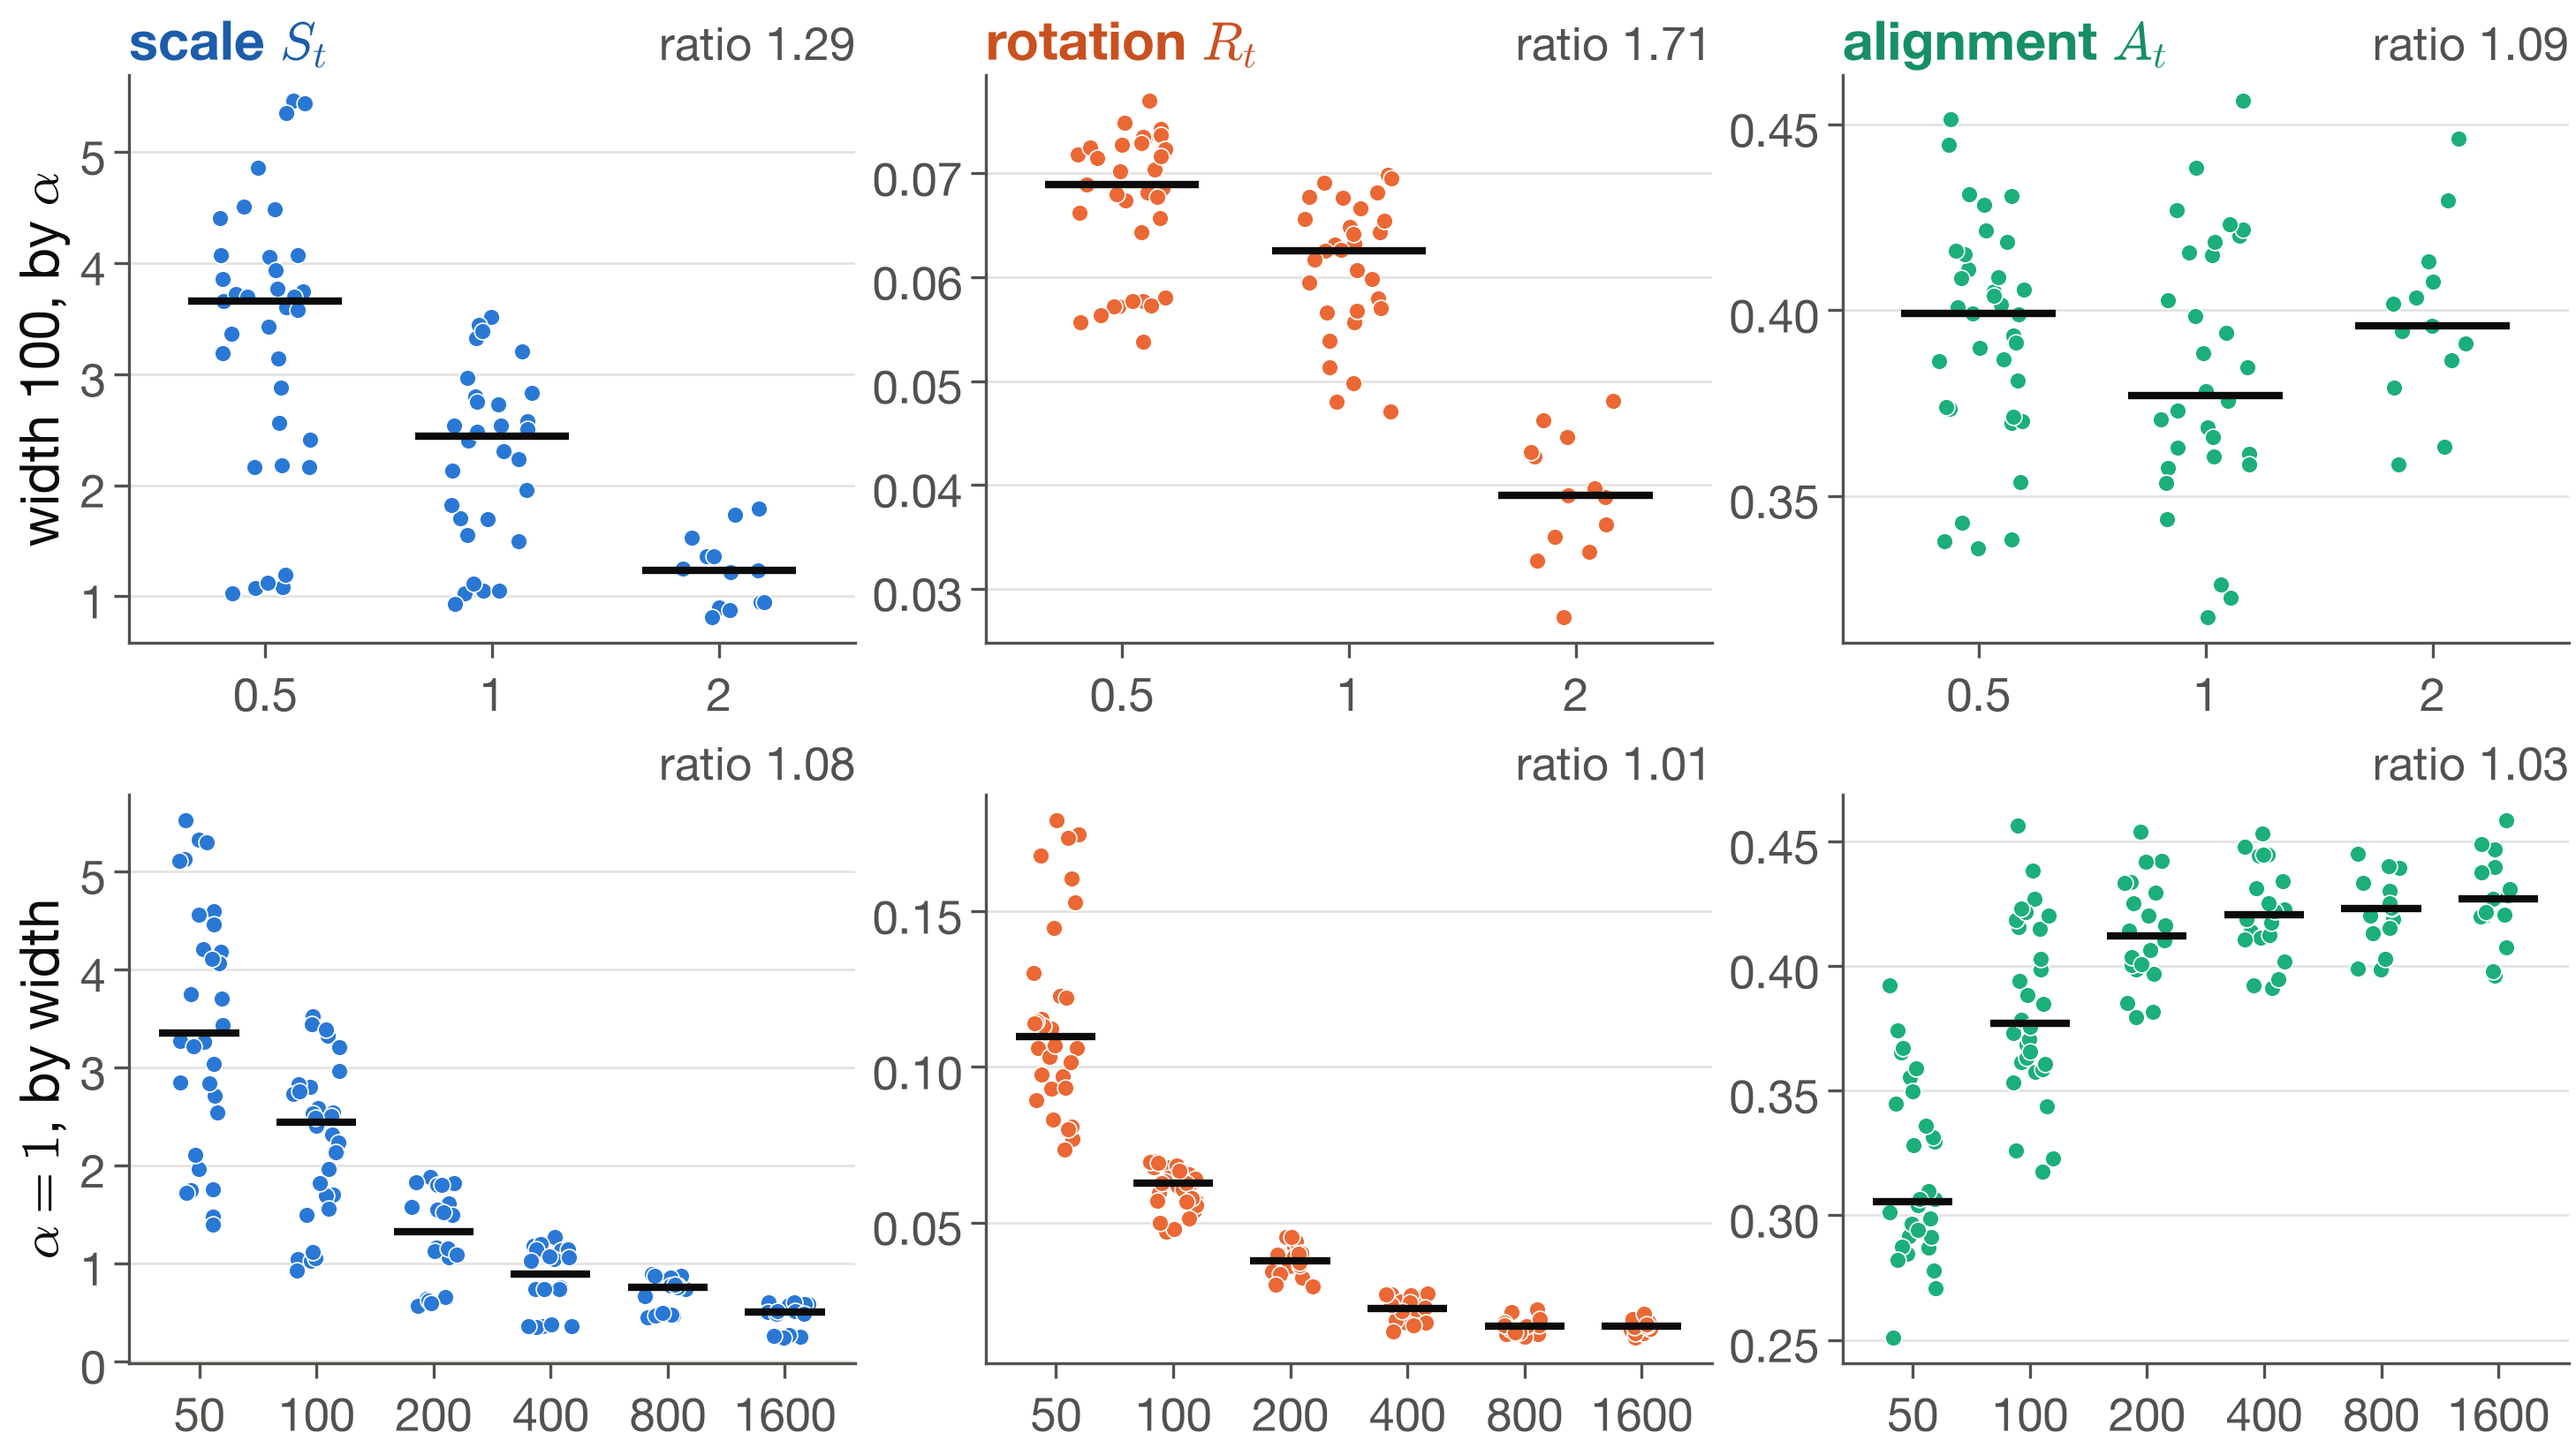
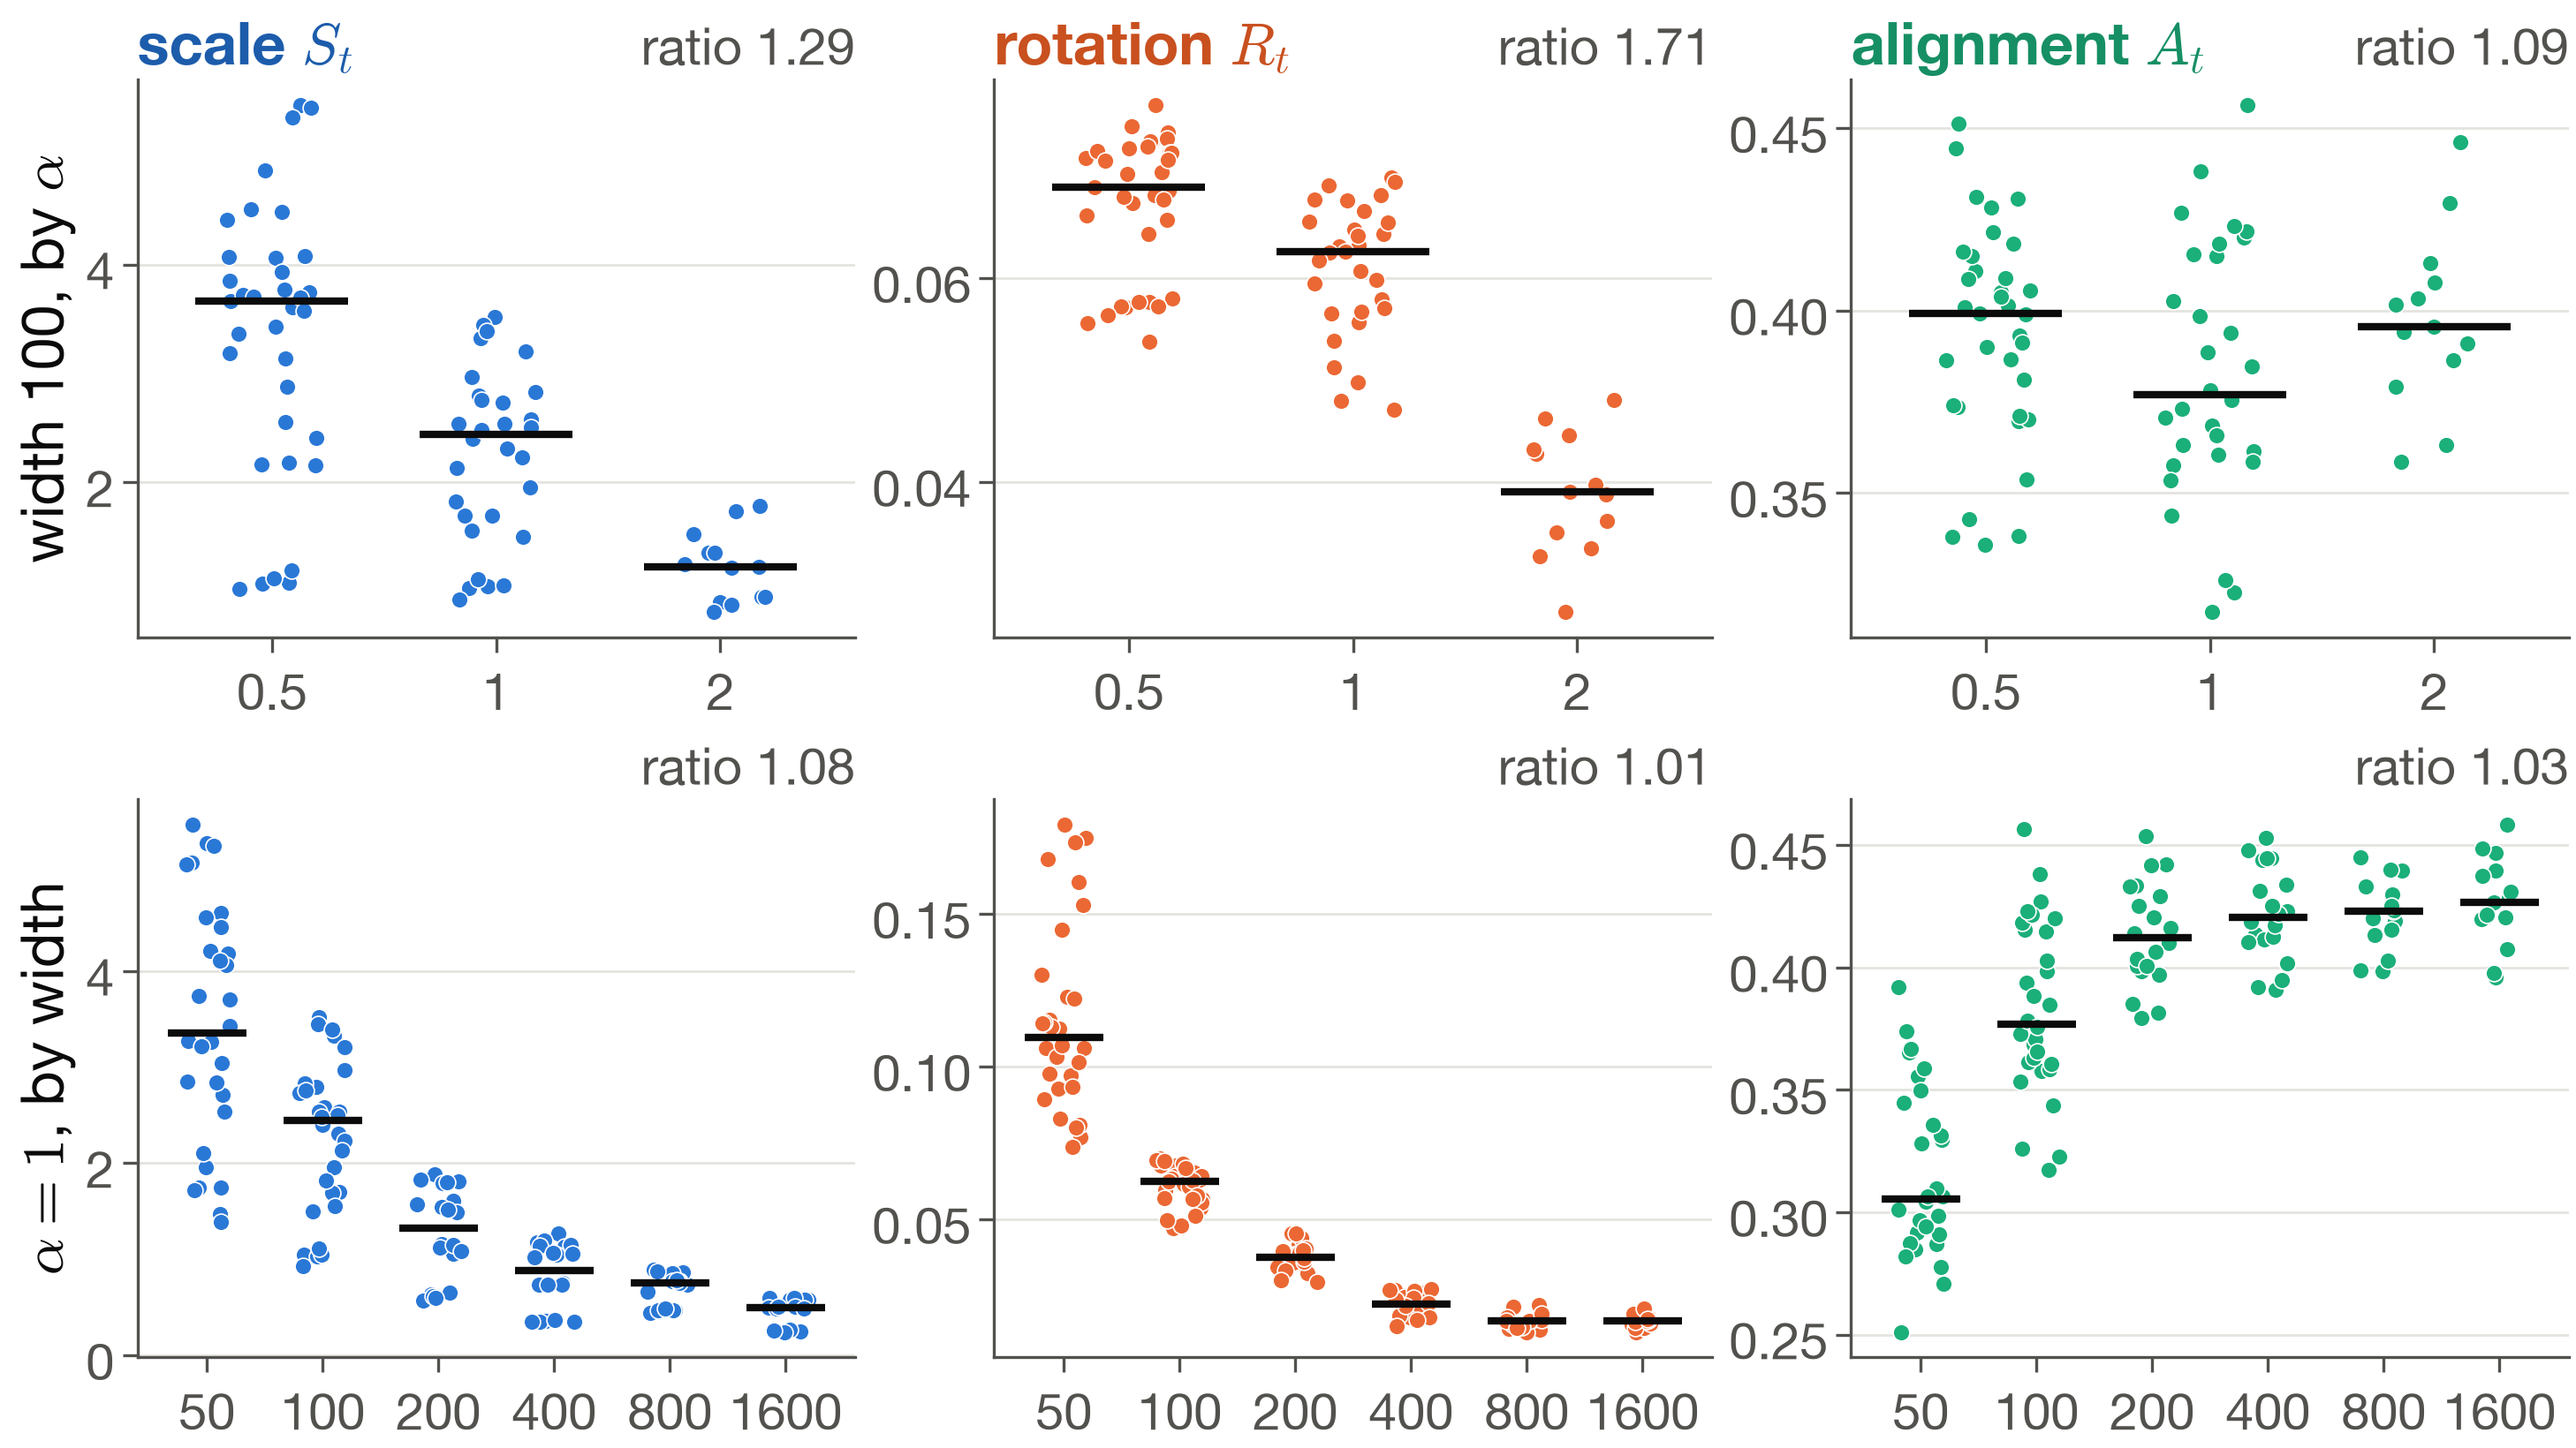
Raise the type of the slide figures to the deck's small print
Tick labels now show at about 29 pixels on the 1920 by 1080 slide, a
little above the small print of the deck. In E8 the label of the settings
reference ends at the top of its dashed line, and the chance line stops
below its label.

diff --git a/presentation/make_figures.py b/presentation/make_figures.py
@@ -30,7 +30,7 @@ import common as C  # noqa: E402
 OUT = HERE / 'assets' / 'figures'
 
 # A figure is drawn at 100 pixels per inch of the 1920 by 1080 slide, so type of s points shows at
-# 1.39 s pixels. A figure in a 55% column is 1056 pixels wide. E2 fills the slide below its title.
+# 1.39 s pixels. Tick labels of 21 points show at 29 pixels, a little above the deck's small print. A figure in a 55% column is 1056 pixels wide. E2 fills the slide below its title.
 # The PNGs are saved at twice that resolution.
 COLUMN = (10.56, 5.94)
 WIDE = (14.58, 8.2)
@@ -47,8 +47,8 @@ plt.rcParams.update({
     # The deck sets Source Sans 3 with Helvetica Neue as its fallback. Matplotlib finds only the
     # fallback here, as Manim does for the clips. Formulas use the TeX fonts, as MathJax does.
     'font.family': 'Helvetica Neue', 'mathtext.fontset': 'cm', 'axes.unicode_minus': False,
-    'font.size': 20, 'axes.titlesize': 22, 'axes.labelsize': 22, 'xtick.labelsize': 19, 'ytick.labelsize': 19,
-    'legend.fontsize': 19, 'lines.linewidth': 2.4, 'lines.markersize': 9, 'axes.linewidth': 1.2,
+    'font.size': 22, 'axes.titlesize': 24, 'axes.labelsize': 24, 'xtick.labelsize': 21, 'ytick.labelsize': 21,
+    'legend.fontsize': 21, 'lines.linewidth': 2.4, 'lines.markersize': 9, 'axes.linewidth': 1.2,
     'grid.linewidth': 1.0, 'xtick.major.width': 1.2, 'ytick.major.width': 1.2, 'xtick.major.size': 6,
     'ytick.major.size': 6, 'xtick.minor.size': 3.5, 'ytick.minor.size': 3.5,
     'figure.dpi': 100, 'savefig.dpi': 200, 'savefig.bbox': 'standard',
@@ -104,7 +104,7 @@ def e2():
             ax.set_xlim(-0.6, len(levels) - 0.4)
             ax.grid(axis='x', visible=False)
             ax.set_title(f"ratio {e3[group][stat]['sd']['tightening']:.2f}", loc='right', color=C.MUTED,
-                         fontsize=19)
+                         fontsize=21)
             if r == 0:
                 ax.set_title(C.STAT_NAME[stat], loc='left', color=C.STAT_RAMP[stat][4], fontweight='bold')
         axes[r, 0].set_ylabel(label)
@@ -177,7 +177,7 @@ def e5():
     ax.text(x1 * 1.12, t0 * x0 / x1, 'slope $-1$', color=C.MUTED, va='center')
     ax.axhline(C.BUDGET, color=C.MUTED, lw=1.2)
     ax.text(2.6e-6, C.BUDGET * 1.07, 'Open circles did not grok within 200,000 steps.', color=C.MUTED, va='bottom',
-            fontsize=17)
+            fontsize=19)
     ax.set_xscale('log')
     ax.set_yscale('log')
     decays = sorted(a1.eta_kappa.unique())
@@ -188,7 +188,7 @@ def e5():
     ax.set_xlim(2.2e-6, 9e-3)
     ax.set_xlabel(r'weight decay $\eta\lambda$')
     ax.set_ylabel('grokking step $T$')
-    ax.legend(loc='lower left', ncol=2, handlelength=1.4, columnspacing=1.0, borderaxespad=0.2, fontsize=18)
+    ax.legend(loc='lower left', ncol=2, handlelength=1.4, columnspacing=1.0, borderaxespad=0.2, fontsize=20)
     save(fig, 'E5_scaling')
 
 
@@ -213,7 +213,7 @@ def e7():
         cb.outline.set_visible(False)
         if stat == 'R':
             cb.ax.yaxis.set_major_formatter(POW10)
-    axes[0].set_title(r'median over seeds at $t^{*}$', loc='right', color=C.MUTED, fontsize=19)
+    axes[0].set_title(r'median over seeds at $t^{*}$', loc='right', color=C.MUTED, fontsize=21)
     axes[1].set_xlabel(r'weight decay $\eta\lambda$')
     save(fig, 'E7_mechanism')
 
@@ -231,14 +231,14 @@ def e8():
               ('kernel ridge', 'kernel ridge', None), ('XGBoost', 'boosted trees', None),
               ('GRU on history', 'recurrent network', None)]
     fig, ax = plt.subplots(figsize=COLUMN, layout='constrained')
-    for i, (key, _, stat) in enumerate(models):
-        mean = ladder[key]['mean']
+    for i, (name, _, stat) in enumerate(models):
+        mean = ladder[name]['mean']
         ax.barh(i, mean - 0.5, left=0.5, height=0.62, color=C.STAT_COLOUR[stat] if stat else NEUTRAL, zorder=2)
         ax.text(0.875, i, f'{mean:.2f}', ha='right', va='center')
     ref = ladder['settings reference']['mean']
     # The two lines stop below their labels.
     ax.vlines(ref, -0.55, len(models) - 0.45, color=C.TEXT, ls='--', lw=2, zorder=3)
-    ax.text(ref, -0.7, f'given the settings, {ref:.2f}', ha='center', va='bottom')
+    ax.text(ref + 0.004, -0.7, f'given the settings, {ref:.2f}', ha='right', va='bottom')
     ax.vlines(0.5, -0.55, len(models) - 0.45, color=C.MUTED, lw=1.4, ls=':', zorder=1)
     ax.text(0.5, -0.7, 'chance', ha='center', va='bottom', color=C.MUTED)
     ax.set_yticks(range(len(models)), [label for _, label, _ in models])
